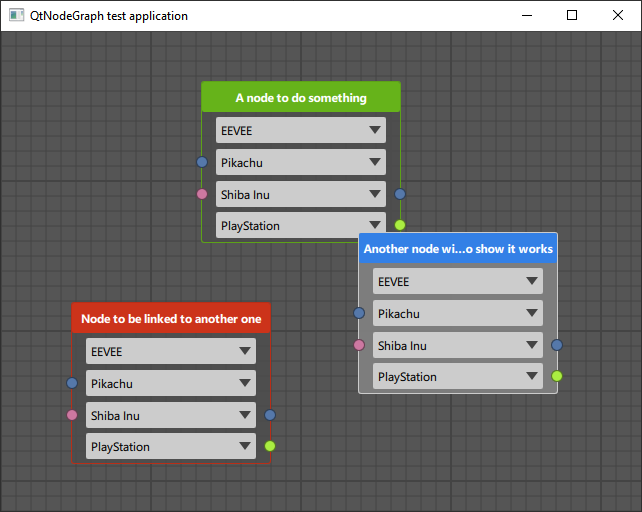
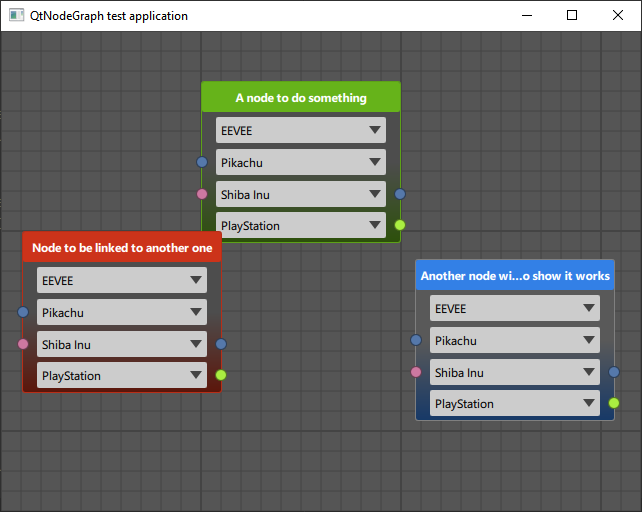
Prepare scene scrolling
Improve node visual

Changed region(s): [[0.0312, 0.375, 0.9657, 0.9062]]

diff --git a/NodeLibrary/NodeSceneBackground.qml b/NodeLibrary/NodeSceneBackground.qml
@@ -4,25 +4,23 @@ Rectangle {
     id: backgroundRoot
     anchors.fill: parent
 
-    property int xOrigin
-    property int yOrigin
+    property real xOrigin: 1
+    property real yOrigin: 1
     property color linesColor: "#000"
     property real scaleFactor: 1
 
-    onScaleFactorChanged: {
-        var wholeBackgroundRect = Qt.rect(x, y, width, height);
-        gridDrawer.clear();
-        gridDrawer.markDirty(wholeBackgroundRect);
-    }
+    onScaleFactorChanged: gridDrawer.redraw()
 
     Canvas {
         id: gridDrawer
         anchors.fill: parent
+        renderStrategy : Canvas.Cooperative
+        renderTarget: Canvas.FramebufferObject
 
         onPaint: {
             var ctx = getContext("2d");
-            drawGrid(ctx, 15, 1);
-            drawGrid(ctx, 150, 2);
+            drawGrid(ctx, 20, 1);
+            drawGrid(ctx, 200, 2);
         }
 
         /**
@@ -42,17 +40,17 @@ Rectangle {
             // Draw the horizontal lines.
             var amountRows = (height / stepScaled) + 1;
             for (var row = 0; row < amountRows; ++row) {
-                var xLine = stepScaled * row ;
-                ctx.moveTo(0, xLine);
-                ctx.lineTo(width, xLine);
+                var yLine = (stepScaled * row) ;
+                ctx.moveTo(0, yLine);
+                ctx.lineTo(width, yLine);
             }
 
             // Draw the vertical lines.
             var amountColumns = (width / stepScaled) + 1;
             for (var col = 0; col < amountColumns; ++col) {
-                var yLine = stepScaled * col ;
-                ctx.moveTo(yLine, 0);
-                ctx.lineTo(yLine, height);
+                var xLine = (stepScaled * col) ;
+                ctx.moveTo(xLine, 0);
+                ctx.lineTo(xLine, height);
             }
 
             ctx.closePath();
@@ -65,6 +63,14 @@ Rectangle {
         function clear() {
             var ctx = getContext("2d");
             ctx.reset();
+        }
+
+        /**
+         * Redraw the whole canvas.
+         */
+        function redraw() {
+            gridDrawer.clear();
+            gridDrawer.requestPaint();
         }
     }
 }

diff --git a/NodeLibrary/NodeScene.qml b/NodeLibrary/NodeScene.qml
@@ -17,6 +17,46 @@ Item {
         id: sceneMouseArea
         anchors.fill: parent
 
+        cursorShape: Qt.OpenHandCursor
+
+        // Position of the mouse on press.
+        property point clickPosition: Qt.point(0, 0)
+        property point previousDelta: Qt.point(0, 0)
+
+        // Press a mouse button.
+        onPressed: mouse => {
+            nodeContainer.selection();
+            nodeContainer.selectedNode = null;
+
+            cursorShape = Qt.ClosedHandCursor;
+            clickPosition = Qt.point(mouse.x, mouse.y);
+        }
+
+        // Release the mouse button.
+        onReleased: {
+            cursorShape = Qt.OpenHandCursor;
+
+            clickPosition = Qt.point(0, 0);
+            previousDelta = Qt.point(0, 0);
+        }
+
+        // Moving the mouse while it is pressed.
+        onPositionChanged: mouse => {
+            var dx = mouse.x - clickPosition.x;
+            var dy = mouse.y - clickPosition.y;
+
+            var xIncrPos = dx - previousDelta.x;
+            var yIncrPos = dy - previousDelta.y;
+
+            console.log(xIncrPos, yIncrPos);
+
+            sceneBackground.xOrigin = sceneBackground.xOrigin + xIncrPos;
+            sceneBackground.yOrigin = sceneBackground.yOrigin + yIncrPos;
+
+            previousDelta = Qt.point(dx, dy);
+        }
+
+        // Scrolling.
         onWheel: (wheel) => {
             if ((wheel.angleDelta.y > 0) && (nodeContainerTransform.xScale < 2.)) {
                 nodeContainerTransform.xScale += 0.1;
@@ -27,11 +67,6 @@ Item {
 
             nodeContainerTransform.yScale = nodeContainerTransform.xScale;
             sceneBackground.scaleFactor = nodeContainerTransform.xScale;
-        }
-
-        onPressed: {
-            nodeContainer.selection();
-            nodeContainer.selectedNode = null;
         }
     }
 

diff --git a/NodeLibrary/Node.qml b/NodeLibrary/Node.qml
@@ -3,6 +3,8 @@ import QtQuick.Controls 2.15
 import QtQuick.Layouts 1.15
 import QtQml.Models 2.15
 
+import QtQuick.Shapes 1.15
+
 import "Widgets"
 import "Widgets/Base"
 
@@ -22,11 +24,11 @@ Item {
         // Private properties
         id: internal
 
-        property color selectedBorderColor: Qt.rgba(0.8, 0.8, 0.8, 1)
-        property color selectedColor: Qt.rgba(0.5, 0.5, 0.5, 0.95)
+        property color selectedBorderColor: Qt.rgba(0.5, 0.5, 0.5, 1)
+        property color selectedColor: Qt.rgba(0.35, 0.35, 0.35, 1)
 
         property color unselectedBorderColor: nodeCaptionBackground.color.darker(1.1)
-        property color unselectedColor: Qt.rgba(0.3, 0.3, 0.3, 0.85)
+        property color unselectedColor: Qt.rgba(0.3, 0.3, 0.3, 1)
     }
 
     onSelectedChanged: {
@@ -49,11 +51,14 @@ Item {
         id: nodeShape
         anchors.fill: parent
 
-        color: internal.unselectedColor
         radius: 3
-
         border.width: 1
         border.color: internal.unselectedBorderColor
+
+        gradient: Gradient {
+            GradientStop { position: 1.0; color: nodeRoot.captionColor.darker(2.2); }
+            GradientStop { position: 0.5; color: selected ? internal.selectedColor : internal.unselectedColor; }
+        }
 
         // Node caption.
         Rectangle
